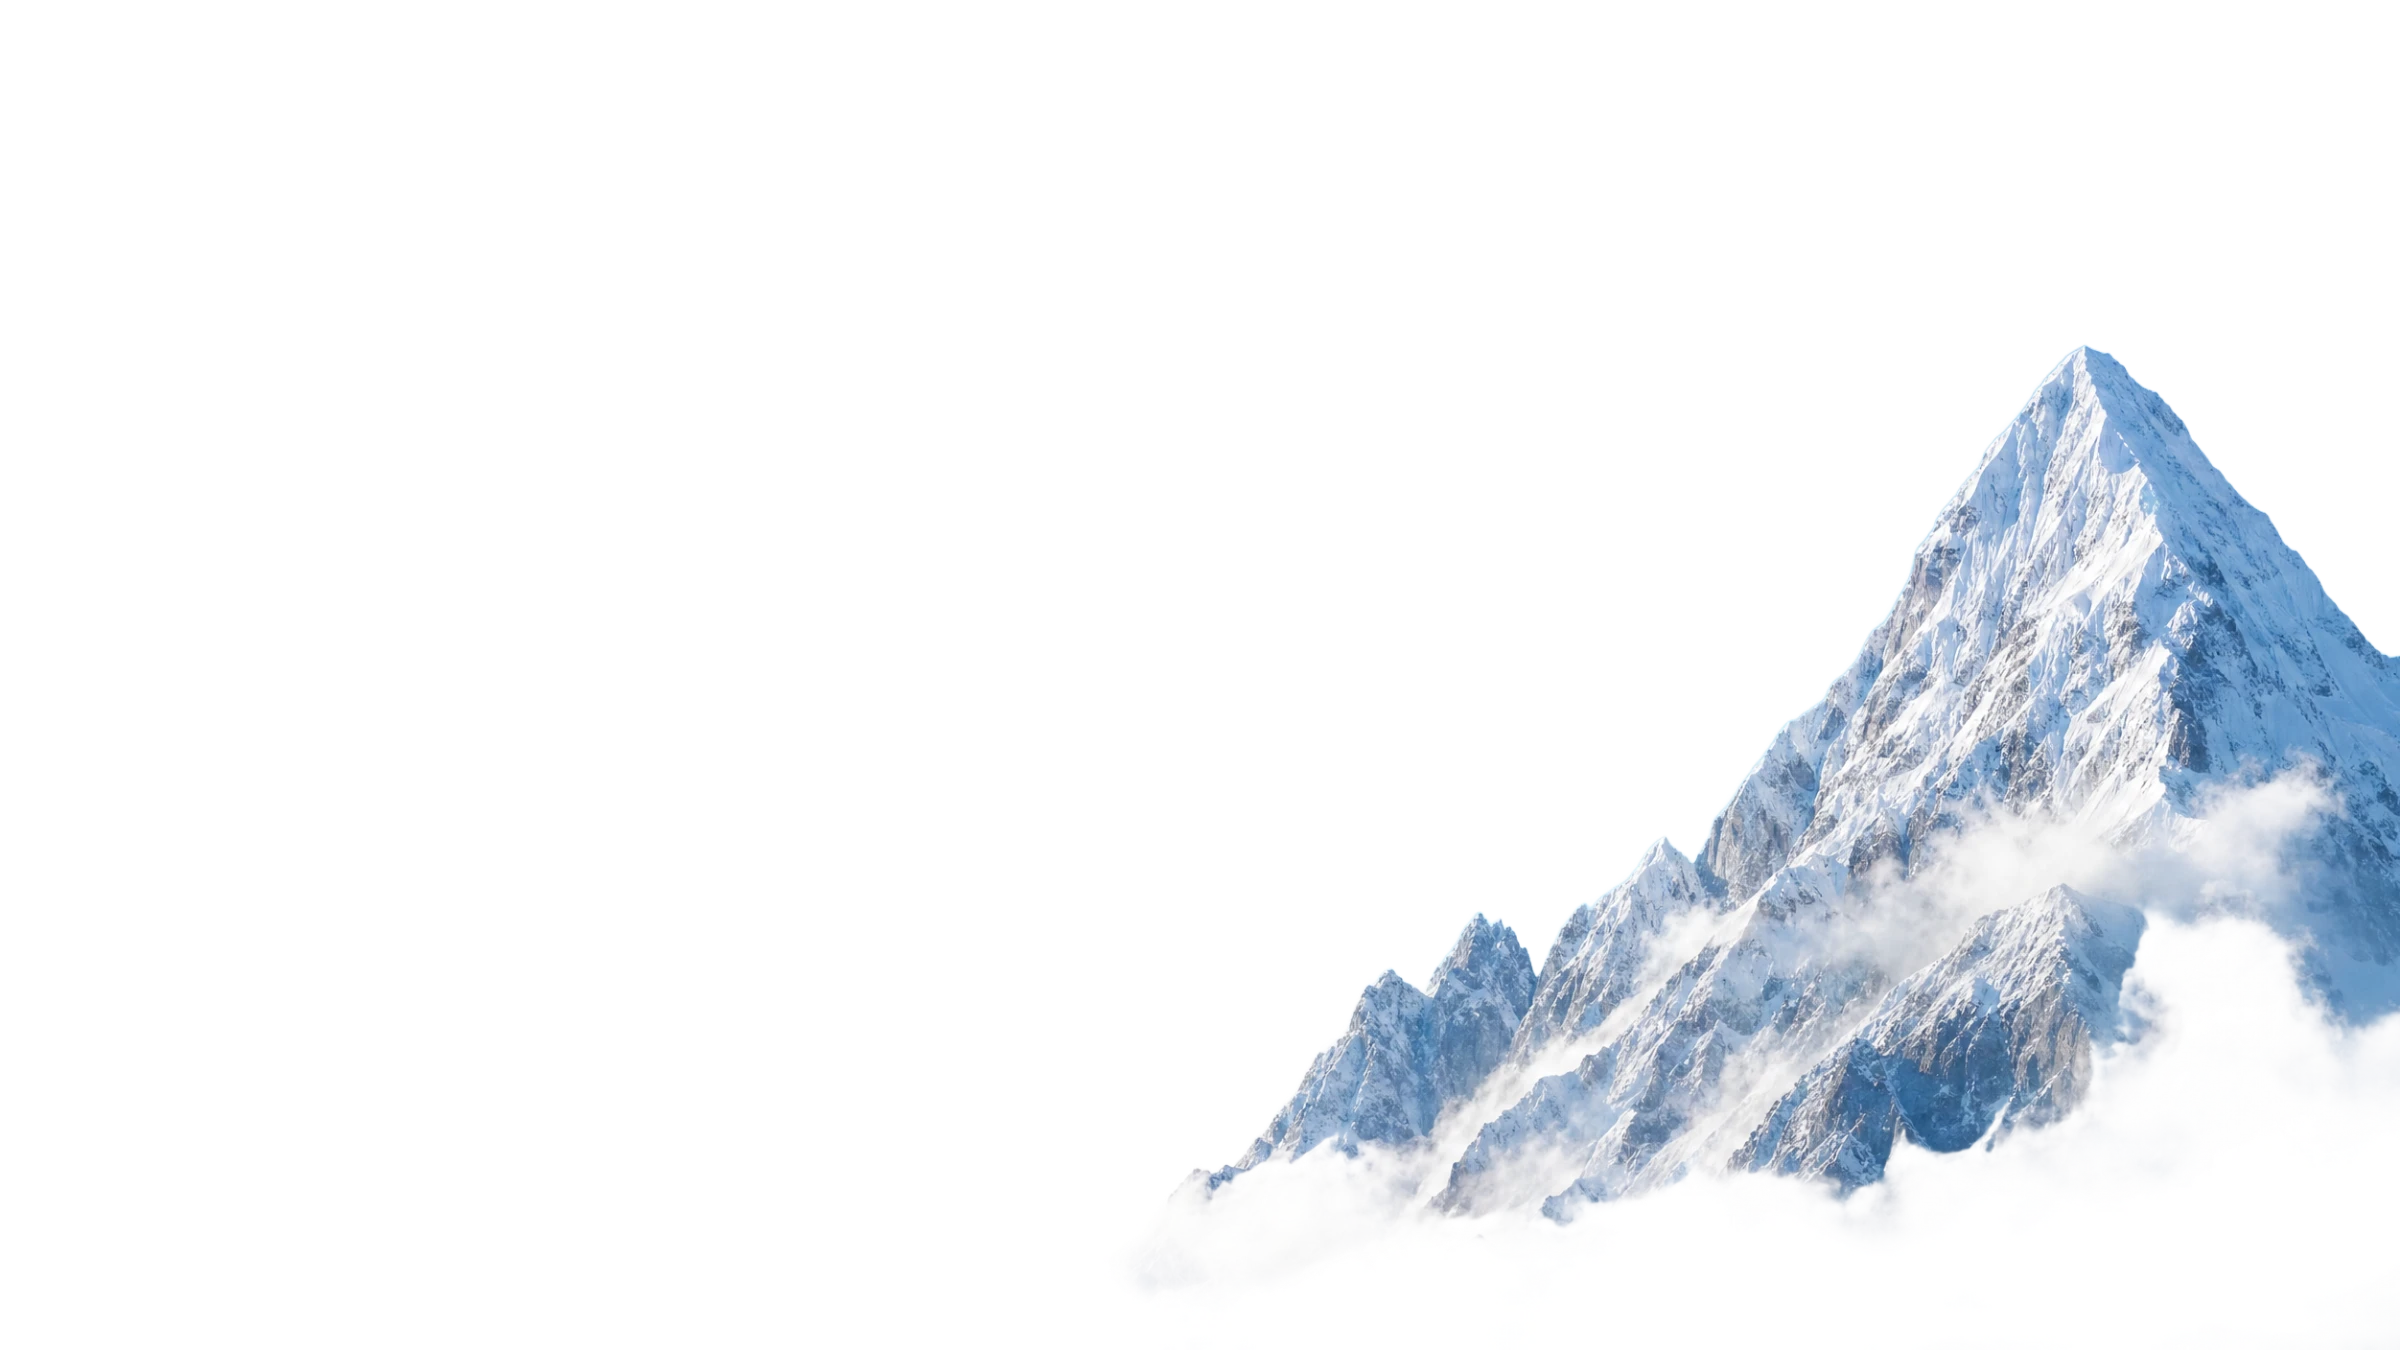
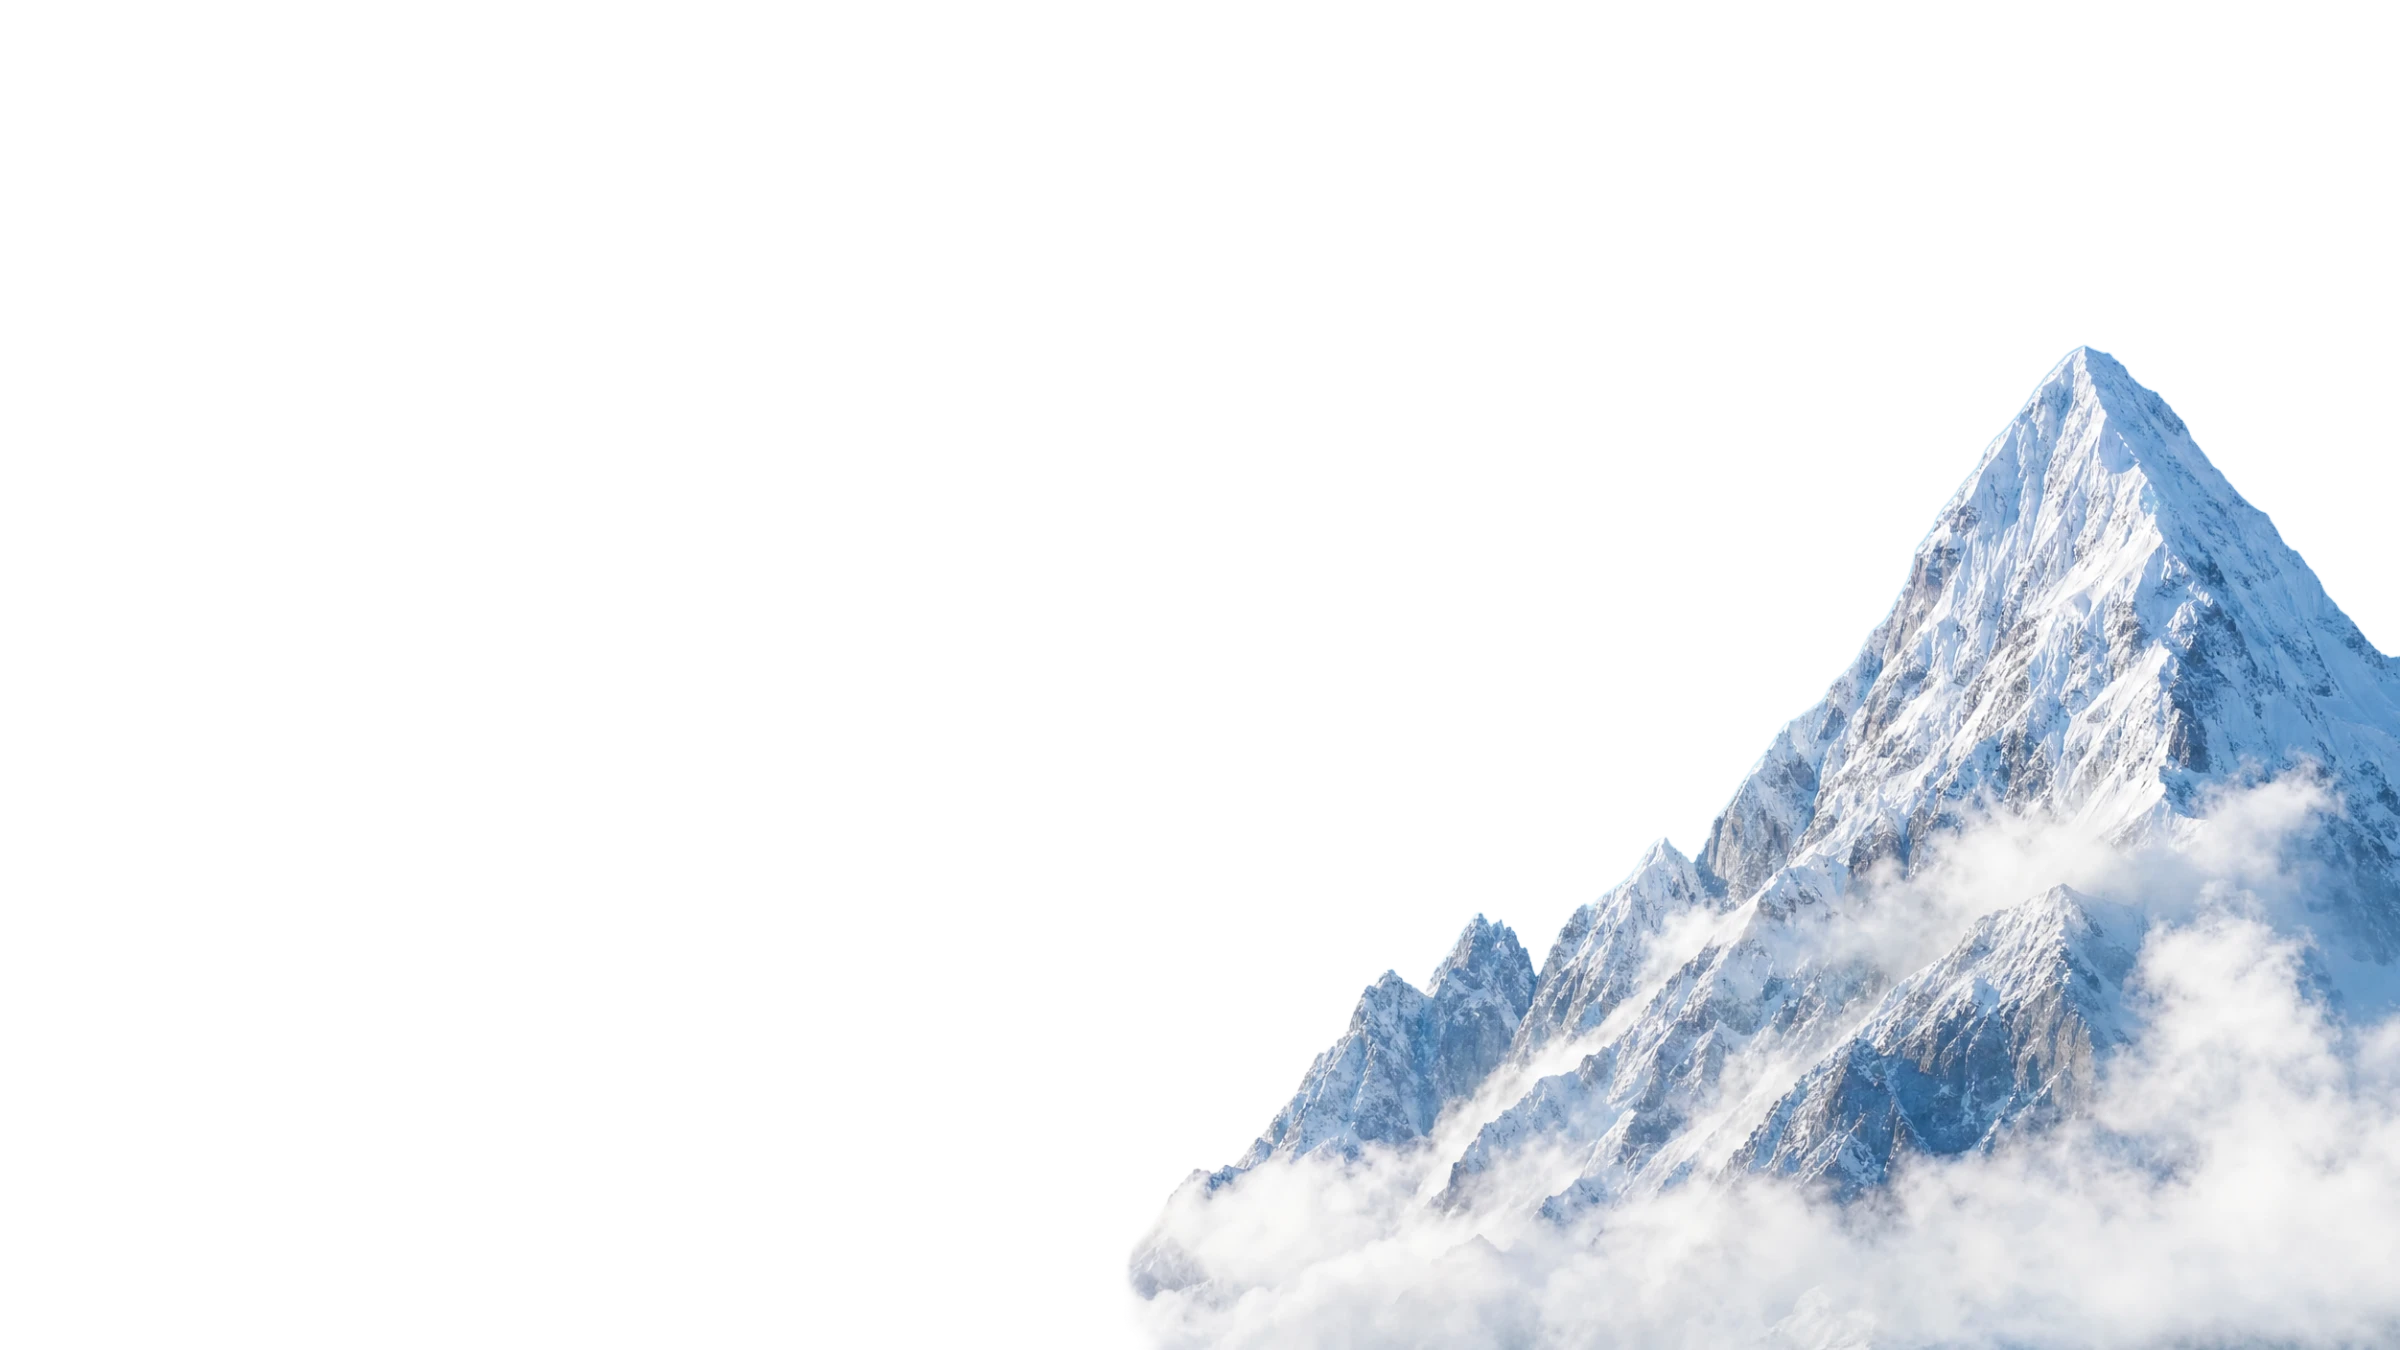
Applied Epic: dark-mode hero layers; Capture: faster stack, longer hold
Claude-Session: https://claude.ai/code/session_017c9dFhV1jq5yJqU4bXW5Yd

diff --git a/src/routes/applied-epic.tsx b/src/routes/applied-epic.tsx
@@ -28,6 +28,8 @@ import { ScaleCallout } from "@/components/yovu/ScaleCallout";
 import { motion } from "motion/react";
 import mountainPeak from "@/assets/hero/light-mountain-peak.webp";
 import mountainPeakMask from "@/assets/hero/light-mountain-peak-mask.webp";
+import mountainPeakDark from "@/assets/hero/dark-mountain-peak.webp";
+import mountainPeakMaskDark from "@/assets/hero/dark-mountain-peak-mask.webp";
 import appliedDashboard from "@/assets/hero/applied-epic-dashboard.webp";
 
 const zImageClass = "aspect-[4/3] w-full rounded-2xl object-cover ring-1 ring-border";
@@ -189,14 +191,22 @@ const faqItems = [
 function AppliedEpicHero() {
   return (
     <section className="relative w-full overflow-hidden bg-canvas aspect-video max-h-screen min-h-[600px]">
-      {/* Layer 1: mountain peak background */}
+      {/* Layer 1: mountain peak background (light / dark) */}
       <img
         src={mountainPeak}
         alt=""
         aria-hidden="true"
         fetchPriority="high"
         decoding="async"
-        className="absolute inset-0 z-0 h-full w-full object-cover"
+        className="absolute inset-0 z-0 h-full w-full object-cover dark:hidden"
+      />
+      <img
+        src={mountainPeakDark}
+        alt=""
+        aria-hidden="true"
+        fetchPriority="high"
+        decoding="async"
+        className="absolute inset-0 z-0 hidden h-full w-full object-cover dark:block"
       />
 
       {/* Layer 2: dashboard in a matte glass frame, tucked behind the peak and
@@ -217,14 +227,21 @@ function AppliedEpicHero() {
         </motion.div>
       </div>
 
-      {/* Layer 3: mountain mask foreground — same framing as the base so the peak
-          overlaps the dashboard, making it peek out from behind the mountain */}
+      {/* Layer 3: mountain mask foreground (light / dark) — same framing as the
+          base so the peak overlaps the dashboard, making it peek out from behind */}
       <img
         src={mountainPeakMask}
         alt=""
         aria-hidden="true"
         decoding="async"
-        className="pointer-events-none absolute inset-0 z-20 h-full w-full object-cover"
+        className="pointer-events-none absolute inset-0 z-20 h-full w-full object-cover dark:hidden"
+      />
+      <img
+        src={mountainPeakMaskDark}
+        alt=""
+        aria-hidden="true"
+        decoding="async"
+        className="pointer-events-none absolute inset-0 z-20 hidden h-full w-full object-cover dark:block"
       />
 
       {/* Layer 4: hero copy, above everything */}

diff --git a/src/components/yovu/capture/CallCollector.tsx b/src/components/yovu/capture/CallCollector.tsx
@@ -35,8 +35,8 @@ const calls: Call[] = [
 
 const COUNT = calls.length;
 const RADIUS = 230;
-const ORBIT_MS = 9000;
-const STACK_HOLD_MS = 2600;
+const ORBIT_MS = 3500;
+const STACK_HOLD_MS = 5000;
 
 function CallCard({ call }: { call: Call }) {
   const Dir = call.dir === "in" ? PhoneIncoming : PhoneOutgoing;